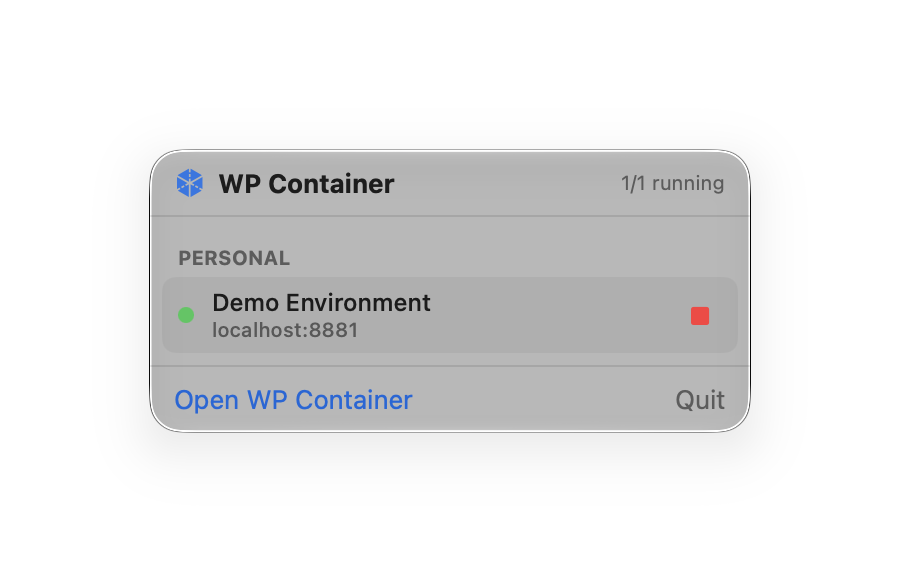
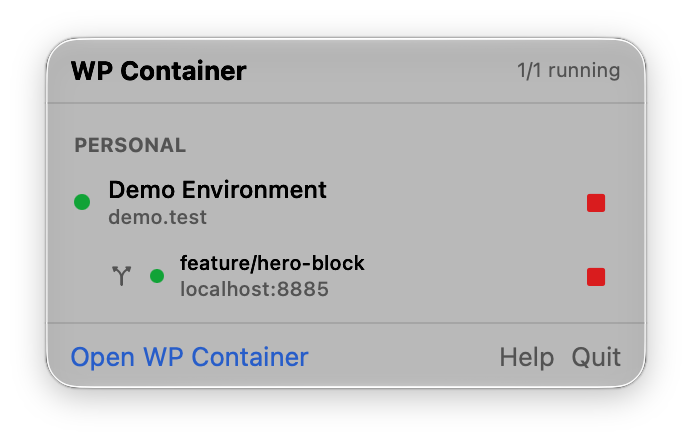
docs: new README and website screenshots
Recaptured with the new server-rack icon and title-bar layout, showing a
throwaway "Demo Environment" site with one branch environment: main window
(Overview), the Settings tab, and the menu bar panel. Window captures with
native shadows on transparent backgrounds replace the old wallpaper crops;
the website's intrinsic image sizes and the README's menu bar width follow.

diff --git a/website/index.html b/website/index.html
@@ -92,7 +92,7 @@
       <div class="hero-shot-wrap">
         <div class="hero-shot">
           <img src="assets/screenshot-main.png"
-               width="2000" height="1386"
+               width="2784" height="1944"
                alt="WP Container app showing the Demo Environment site overview: URL, local port, WordPress and PHP versions, and a Branches panel for creating branch environments."
                fetchpriority="high">
         </div>
@@ -235,13 +235,13 @@
         </header>
 
         <div class="shot shot-inline reveal">
-          <img src="assets/screenshot-settings.png" width="2000" height="1386" loading="lazy"
+          <img src="assets/screenshot-settings.png" width="2784" height="1944" loading="lazy"
                alt="WP Container Settings tab: toggles for Trusted HTTPS with a trusted certificate authority, AI Agent Tools, the global wp command, Xdebug, Elasticsearch, and WP_DEBUG debugging switches.">
         </div>
 
         <div class="shot-caption-grid">
           <div class="shot shot-menubar reveal">
-            <img src="assets/screenshot-menubar.png" width="900" height="582" loading="lazy"
+            <img src="assets/screenshot-menubar.png" width="692" height="442" loading="lazy"
                  alt="WP Container menu-bar extra showing 1 of 1 sites running, the Demo Environment on localhost:8881 with a start/stop control, and Open and Quit actions.">
           </div>
           <div class="menubar-copy reveal" style="--d:80ms">

diff --git a/README.md b/README.md
@@ -40,7 +40,7 @@ Sites are provisioned automatically (no install wizard) and log in with
 </p>
 
 <p align="center">
-  <img src="docs/assets/screenshot-menubar.png" alt="Menu bar extra with per-site status and start/stop" width="420">
+  <img src="docs/assets/screenshot-menubar.png" alt="Menu bar extra with per-site status and start/stop" width="346">
 </p>
 
 ## Highlights
